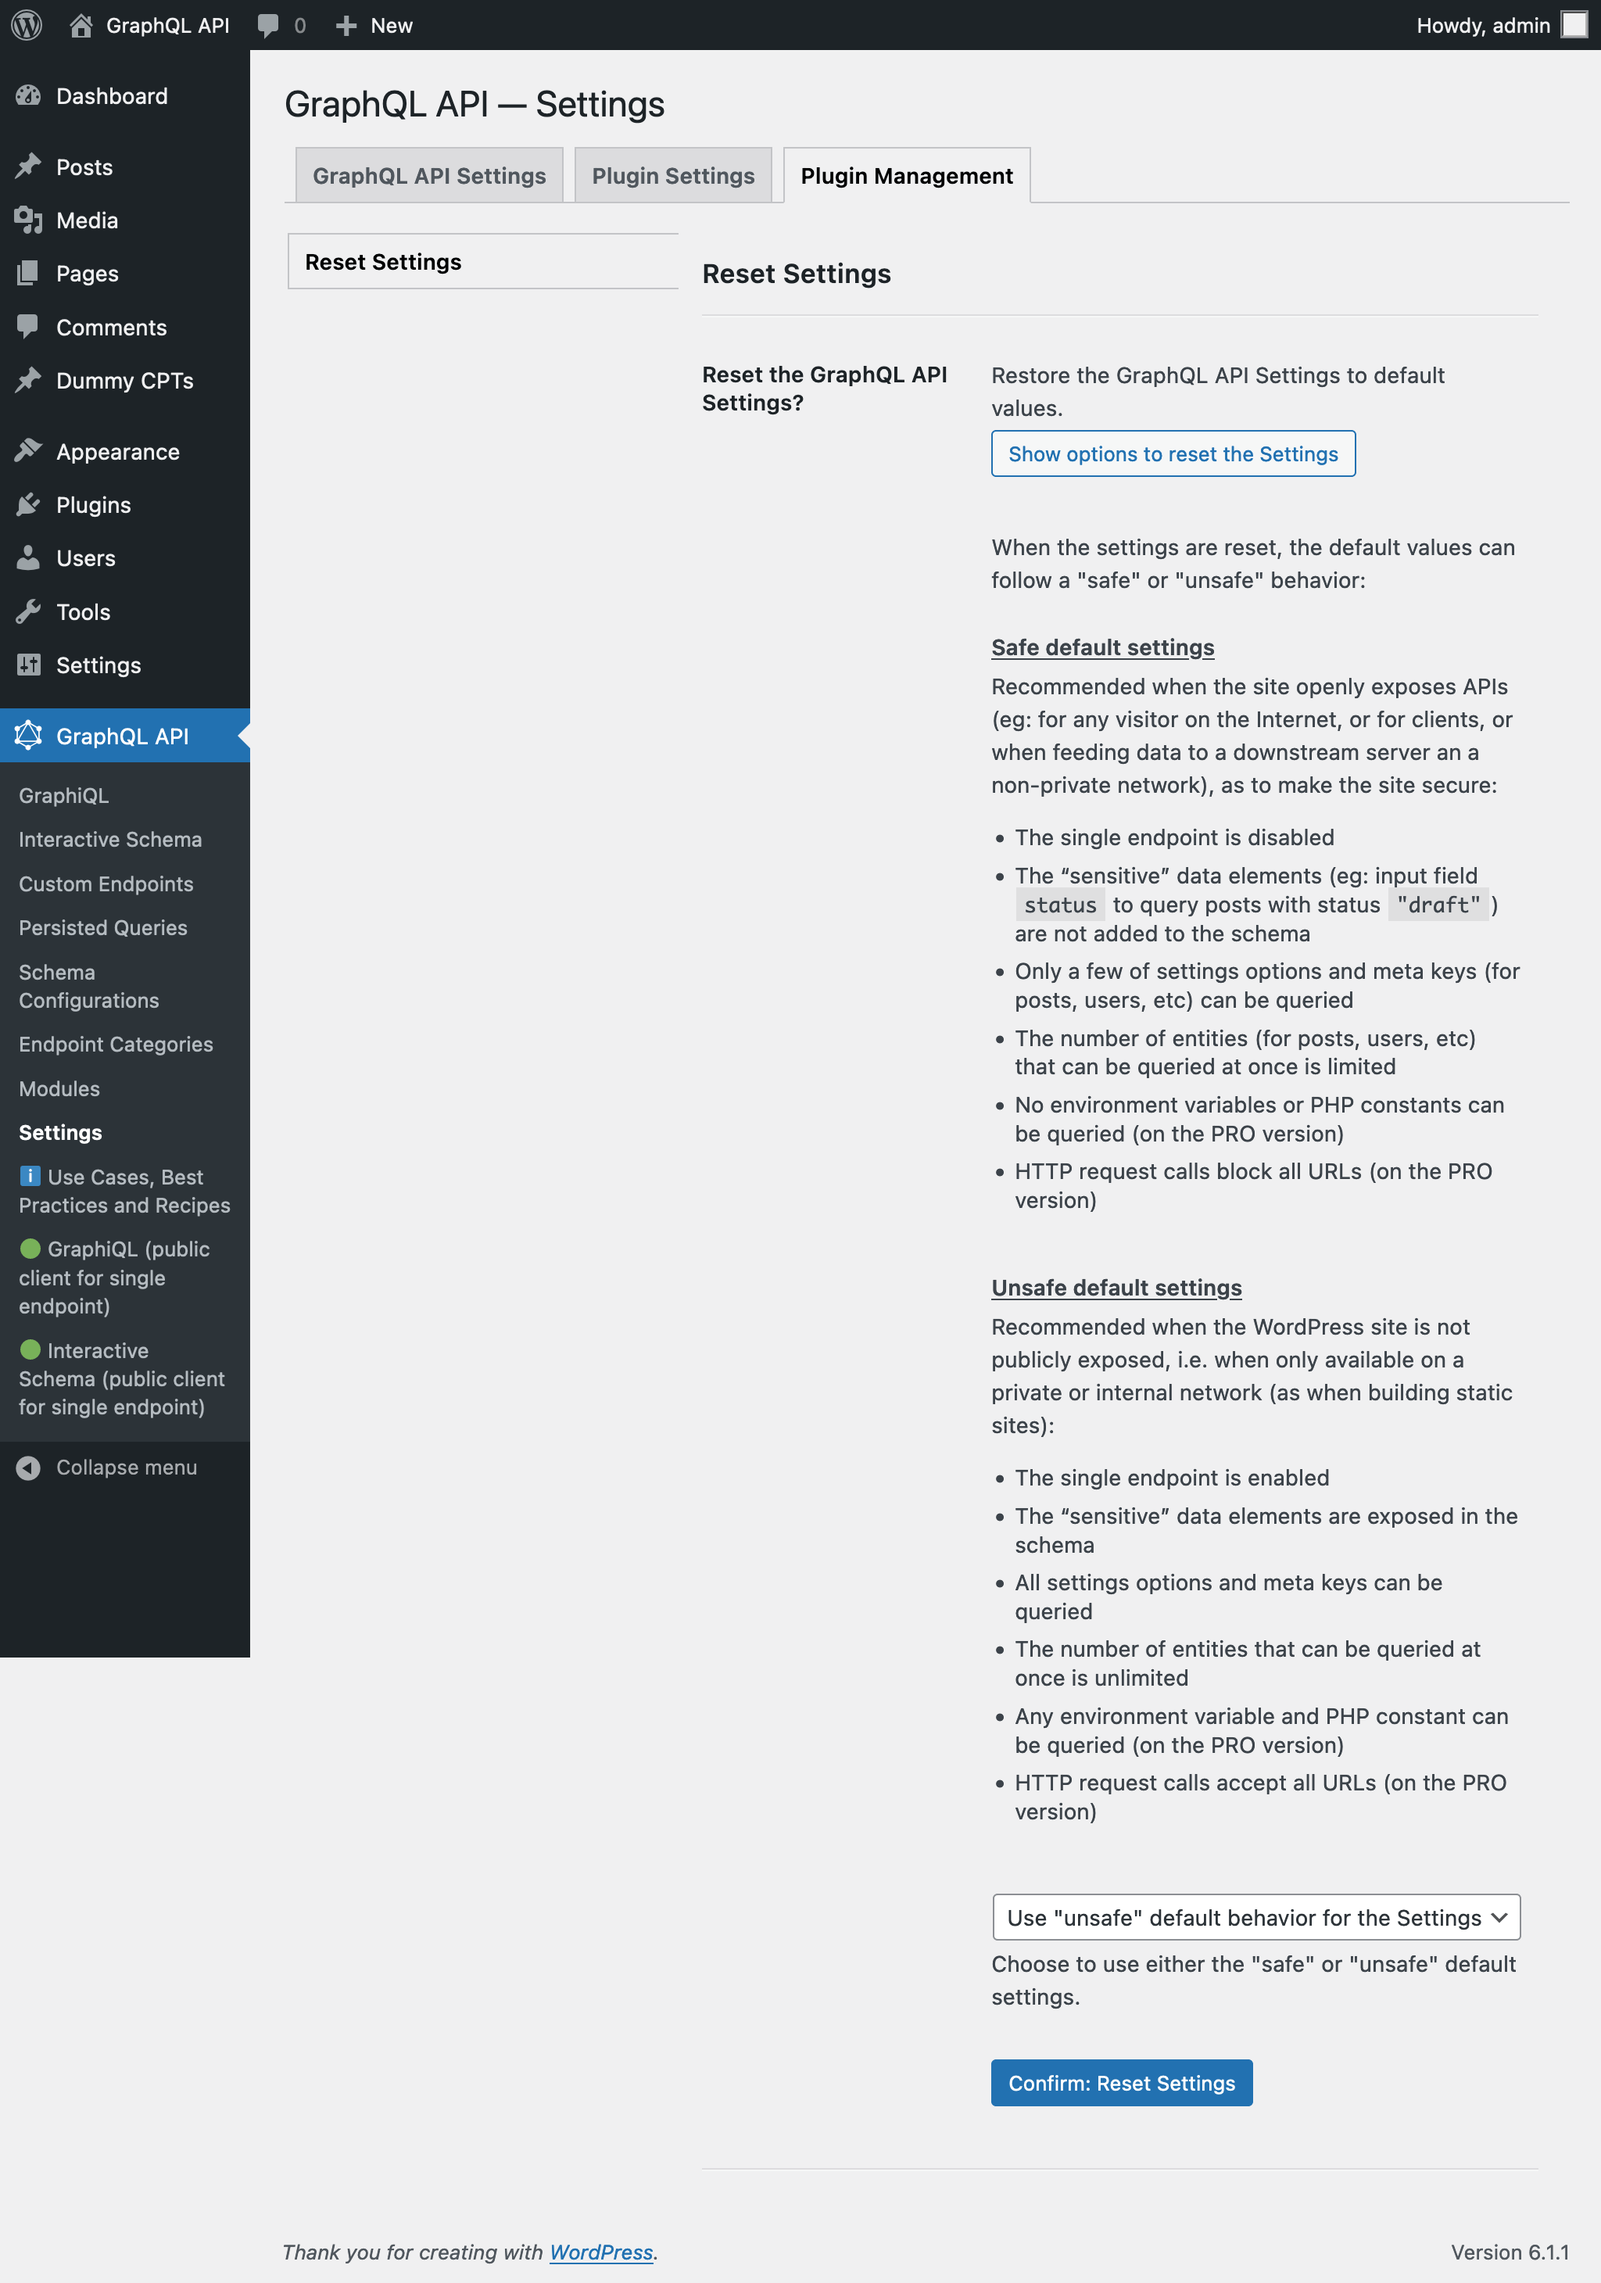
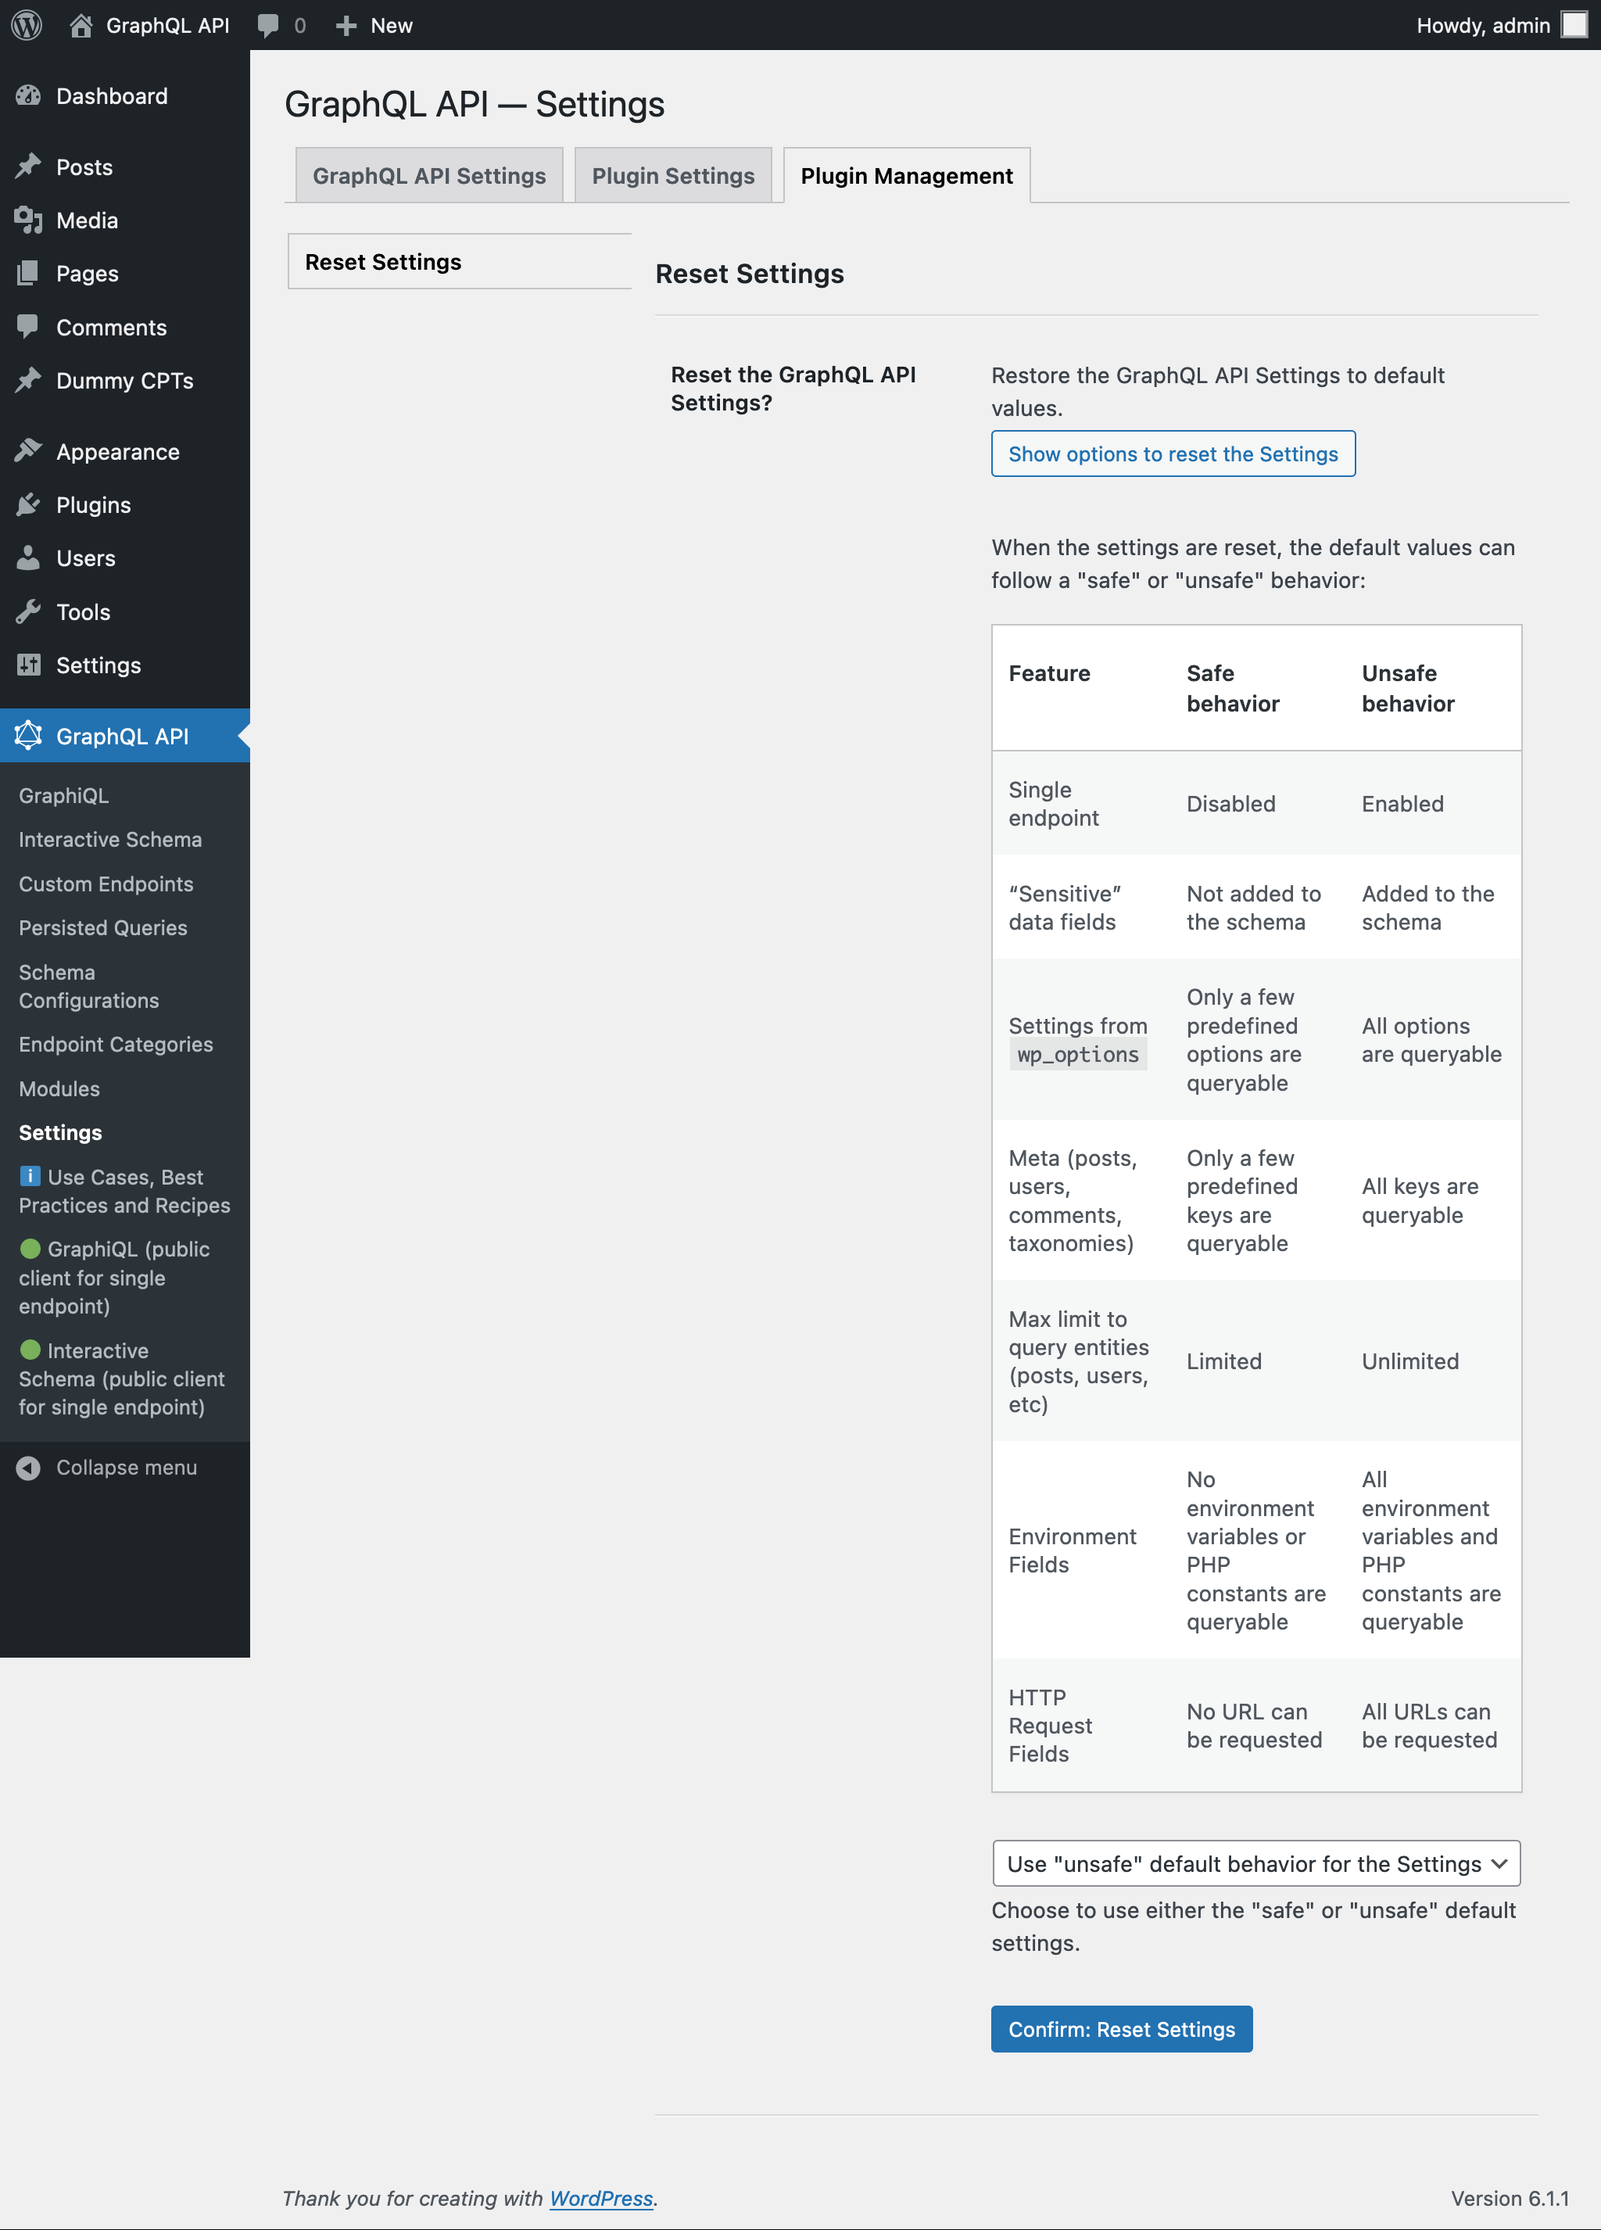
Merge pull request #2086 from leoloso/Use-table-instead-of-bullets-for-safe-unsafe-behavior-docs
Use table instead of bullets for safe unsafe behavior docs

diff --git a/assets/css/tabpanel.css b/assets/css/tabpanel.css
@@ -40,7 +40,7 @@
 }
 .graphql-api-tabpanel.vertical-tabs > .nav-tab-container > .nav-tab-wrapper {
     padding-top: 0;
-    flex: 0 0 160px;
+    flex: 0 0 150px;
     overflow: auto;
     height: 100%;
     max-height: calc(100vh - 120px);
@@ -64,16 +64,16 @@
 }
 @media (min-width: 600px) {
     .graphql-api-tabpanel.vertical-tabs > .nav-tab-container > .nav-tab-wrapper {
-        flex: 0 0 190px;
+        flex: 0 0 160px;
     }
 }
 @media (min-width: 783px) {
     .graphql-api-tabpanel.vertical-tabs > .nav-tab-container > .nav-tab-wrapper {
-        flex: 0 0 220px;
+        flex: 0 0 190px;
     }
 }
 @media (min-width: 961px) {
     .graphql-api-tabpanel.vertical-tabs > .nav-tab-container > .nav-tab-wrapper {
-        flex: 0 0 250px;
+        flex: 0 0 220px;
     }
 }

diff --git a/assets/css/settings.css b/assets/css/settings.css
@@ -1,0 +1,7 @@
+/**
+ * Fix for header padding in table in
+ * "Settings => Plugin Management => Reset Settings"
+ */
+.graphql-api-settings-section .form-table th {
+    padding-left: 10px;
+}

diff --git a/src/ModuleResolvers/PluginManagementFunctionalityModuleResolver.php b/src/ModuleResolvers/PluginManagementFunctionalityModuleResolver.php
@@ -152,32 +152,70 @@ class PluginManagementFunctionalityModuleResolver extends AbstractFunctionalityM
                     'safe-or-unsafe-behavior-description'
                 ),
                 Properties::DESCRIPTION => sprintf(
-                    '<p>%s</p><br/><p>%s</p><p>%s</p><ul><li>%s</li></ul><br/><p>%s</p><p>%s</p><ul><li>%s</li></ul>',
+                    '<p>%s</p><br/><table class="wp-list-table widefat striped"><thead><tr><th>%s</th><th>%s</th><th>%s</th></tr></thead><tbody><tr>%s</tr></tbody></table>',
                     \__('When the settings are reset, the default values can follow a "safe" or "unsafe" behavior:', 'graphql-api'),
-                    \__('<strong><u>Safe default settings</u></strong>', 'graphql-api'),
-                    \__('Recommended when the site openly exposes APIs (eg: for any visitor on the Internet, or for clients, or when feeding data to a downstream server an a non-private network), as to make the site secure:', 'graphql-api'),
+                    \__('Feature', 'graphql-api'),
+                    \__('Safe behavior', 'graphql-api'),
+                    \__('Unsafe behavior', 'graphql-api'),
                     implode(
-                        '</li><li>',
+                        '</tr><tr>',
                         [
-                            \__('The single endpoint is disabled', 'graphql-api'),
-                            \__('The “sensitive” data elements (eg: input field <code>status</code> to query posts with status <code>"draft"</code>) are not added to the schema', 'graphql-api'),
-                            \__('Only a few of settings options and meta keys (for posts, users, etc) can be queried', 'graphql-api'),
-                            \__('The number of entities (for posts, users, etc) that can be queried at once is limited', 'graphql-api'),
-                            \__('No environment variables or PHP constants can be queried (on the PRO version)', 'graphql-api'),
-                            \__('HTTP request calls block all URLs (on the PRO version)', 'graphql-api'),
-                        ]
-                    ),
-                    \__('<strong><u>Unsafe default settings</u></strong>', 'graphql-api'),
-                    \__('Recommended when the WordPress site is not publicly exposed, i.e. when only available on a private or internal network (as when building static sites):', 'graphql-api'),
-                    implode(
-                        '</li><li>',
-                        [
-                            \__('The single endpoint is enabled', 'graphql-api'),
-                            \__('The “sensitive” data elements are exposed in the schema', 'graphql-api'),
-                            \__('All settings options and meta keys can be queried', 'graphql-api'),
-                            \__('The number of entities that can be queried at once is unlimited', 'graphql-api'),
-                            \__('Any environment variable and PHP constant can be queried (on the PRO version)', 'graphql-api'),
-                            \__('HTTP request calls accept all URLs (on the PRO version)', 'graphql-api'),
+                            '<td>' . implode(
+                                '</td><td>',
+                                [
+                                    \__('Single endpoint', 'graphql-api'),
+                                    \__('Disabled', 'graphql-api'),
+                                    \__('Enabled', 'graphql-api'),
+                                ]
+                            ) . '</td>',
+                            '<td>' . implode(
+                                '</td><td>',
+                                [
+                                    \__('“Sensitive” data fields', 'graphql-api'),
+                                    \__('Not added to the schema', 'graphql-api'),
+                                    \__('Added to the schema', 'graphql-api'),
+                                ]
+                            ) . '</td>',
+                            '<td>' . implode(
+                                '</td><td>',
+                                [
+                                    \__('Settings from <code>wp_options</code>', 'graphql-api'),
+                                    \__('Only a few predefined options are queryable', 'graphql-api'),
+                                    \__('All options are queryable', 'graphql-api'),
+                                ]
+                            ) . '</td>',
+                            '<td>' . implode(
+                                '</td><td>',
+                                [
+                                    \__('Meta (posts, users, comments, taxonomies)', 'graphql-api'),
+                                    \__('Only a few predefined keys are queryable', 'graphql-api'),
+                                    \__('All keys are queryable', 'graphql-api'),
+                                ]
+                            ) . '</td>',
+                            '<td>' . implode(
+                                '</td><td>',
+                                [
+                                    \__('Max limit to query entities (posts, users, etc)', 'graphql-api'),
+                                    \__('Limited', 'graphql-api'),
+                                    \__('Unlimited', 'graphql-api'),
+                                ]
+                            ) . '</td>',
+                            '<td>' . implode(
+                                '</td><td>',
+                                [
+                                    \__('Environment Fields', 'graphql-api'),
+                                    \__('No environment variables or PHP constants are queryable', 'graphql-api'),
+                                    \__('All environment variables and PHP constants are queryable', 'graphql-api'),
+                                ]
+                            ) . '</td>',
+                            '<td>' . implode(
+                                '</td><td>',
+                                [
+                                    \__('HTTP Request Fields', 'graphql-api'),
+                                    \__('No URL can be requested', 'graphql-api'),
+                                    \__('All URLs can be requested', 'graphql-api'),
+                                ]
+                            ) . '</td>',
                         ]
                     ),
                 ),

diff --git a/src/Services/MenuPages/SettingsMenuPage.php b/src/Services/MenuPages/SettingsMenuPage.php
@@ -475,6 +475,12 @@ class SettingsMenuPage extends AbstractPluginMenuPage
             array('jquery'),
             $mainPluginVersion
         );
+        \wp_enqueue_style(
+            'graphql-api-settings',
+            $mainPluginURL . 'assets/css/settings.css',
+            array(),
+            $mainPluginVersion
+        );
     }
 
     /**

diff --git a/README.md b/README.md
@@ -51,23 +51,19 @@ Code compiled for development, i.e. after running `npm start`, cannot be commite
 
 ### Building static sites
 
-The GraphQL API for WordPress provides safe default settings, to make "live" sites secure:
+The GraphQL API for WordPress provides safe default settings, to make "live" sites secure. However, these safe default settings are not needed when building "static" sites, where the WordPress site is not exposed to the Internet.
 
-- The single endpoint is disabled
-- The “sensitive” data elements (eg: input field `status` to query posts with status `"draft"`) are not added to the schema
-- Only a few of settings options and meta keys (for posts, users, etc) can be queried
-- The number of entities (for posts, users, etc) that can be queried at once is limited
-- No environment variables or PHP constants can be queried (on the PRO version)
-- HTTP request calls block all URLs (on the PRO version)
+This is how the "safe" and "unsafe" default behaviors compare:
 
-These safe default settings are not needed when building "static" sites, where the WordPress site is not exposed to the Internet. These settings can be used instead:
-
-- The single endpoint is enabled
-- The “sensitive” data elements are exposed in the schema
-- All settings options and meta keys can be queried
-- The number of entities that can be queried at once is unlimited
-- Any environment variable and PHP constant can be queried (on the PRO version)
-- HTTP request calls accept all URLs (on the PRO version)
+| Feature | Safe behavior | Unsafe behavior |
+| --- | --- | --- |
+| Single endpoint | Disabled | Enabled |
+| “Sensitive” data fields | Not added to the schema | Added to the schema |
+| Settings from `wp_options` | Only a few predefined options are queryable | All options are queryable |
+| Meta (posts, users, comments, taxonomies) | Only a few predefined keys are queryable | All keys are queryable |
+| Max limit to query entities (posts, users, etc) | Limited | Unlimited |
+| Environment Fields | No environment variables or PHP constants are queryable | All environment variables and PHP constants are queryable |
+| HTTP Request Fields | No URL can be requested | All URLs can be requested |
 
 In development, to enable unsafe defaults, execute:
 
